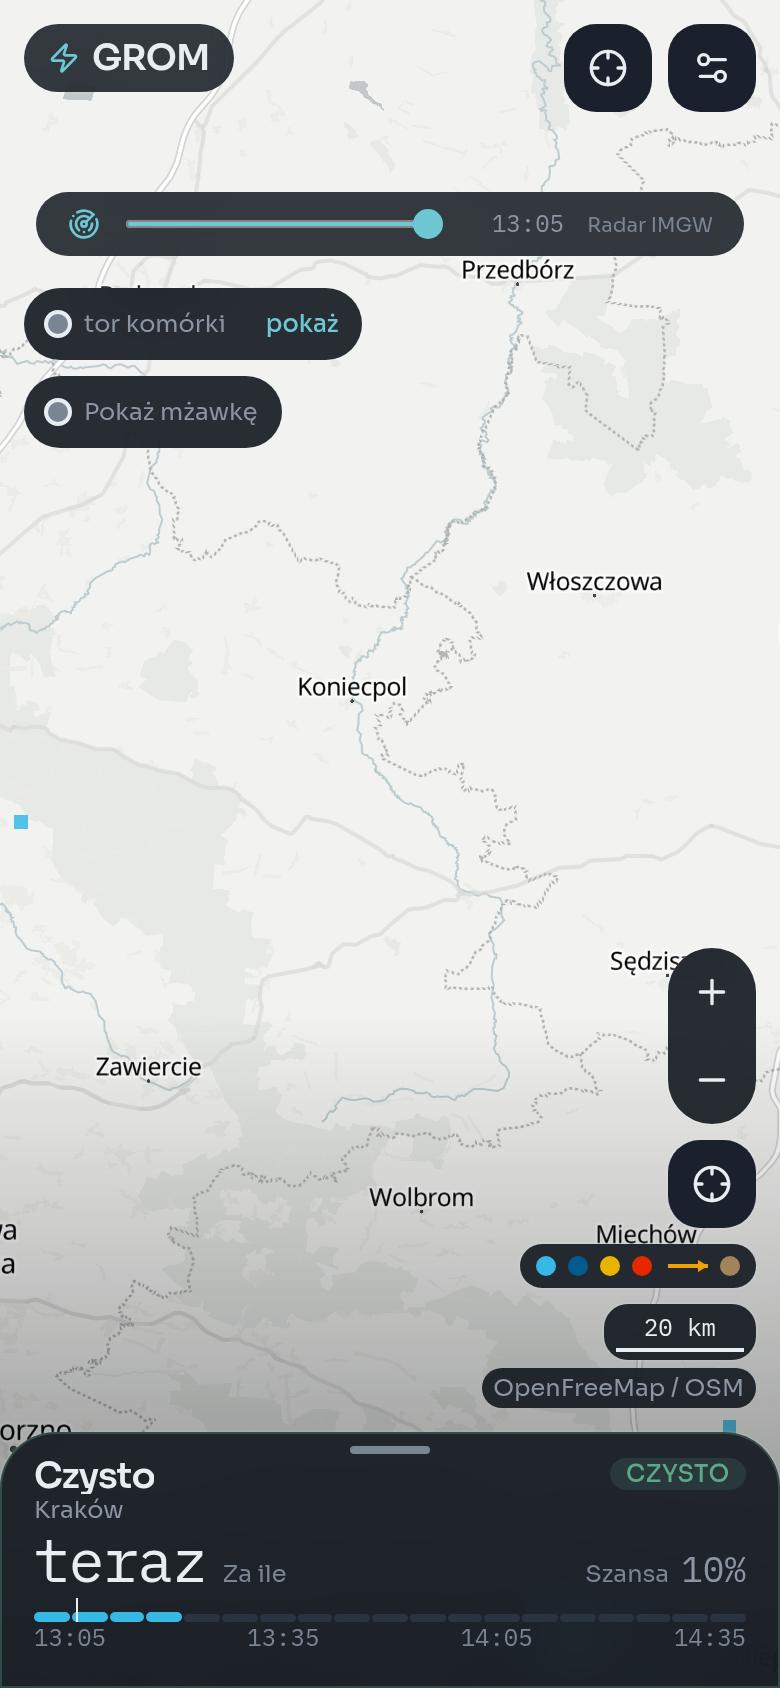
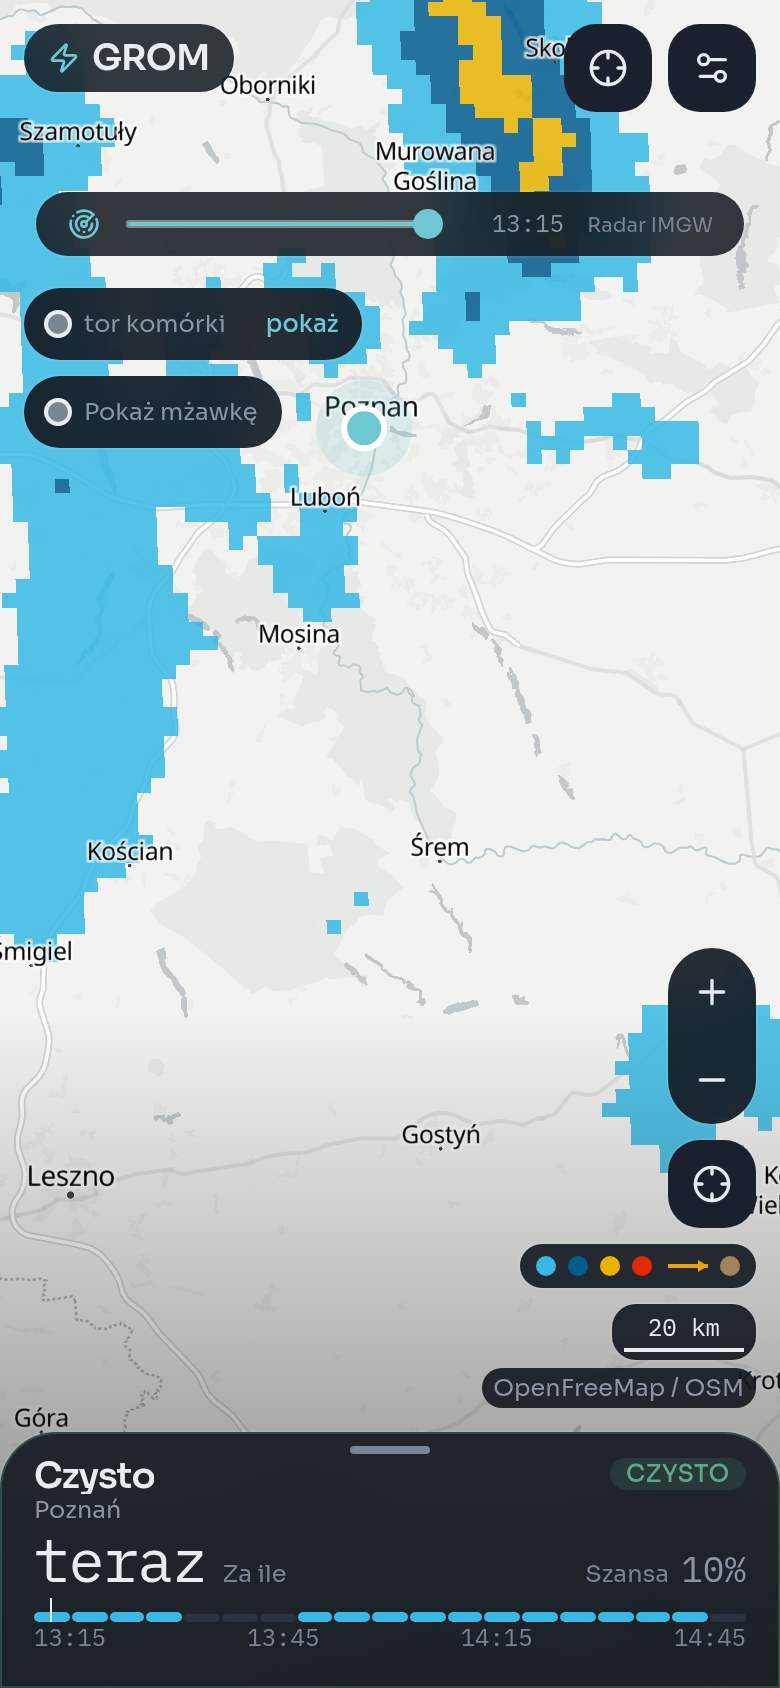
fix(threat-sheet): keep the strip source note out of the legend row
At 390px the advected note and "nic w oknie 90 min" collided in one
flex row. The note goes back beside the strip caption, where it was.

diff --git a/src/components/threat-sheet.tsx b/src/components/threat-sheet.tsx
@@ -445,7 +445,10 @@ function Strip({
   return (
     <div className={cn(interactive && "rounded-2xl bg-surface-2 px-3 py-2", className)}>
       {interactive ? (
-        <p className={cn("text-xs text-faint", extrasClass)}>Opad nad pinezką · 90 min</p>
+        <div className={cn("flex items-baseline justify-between gap-2 text-xs text-faint", extrasClass)}>
+          <span>Opad nad pinezką · 90 min</span>
+          <span>{advected ? "z ruchu echa" : "bez ruchu — jak teraz"}</span>
+        </div>
       ) : null}
       <div className={cn("relative", interactive && "sm:mt-2")}>
         <div
@@ -517,8 +520,7 @@ function Strip({
               {levelLabelPl(l.level)} {l.range}
             </span>
           ))}
-          <span className="ml-auto">{advected ? "z ruchu echa" : "bez ruchu — jak teraz"}</span>
-          {!any ? <span className="w-full">nic w oknie 90 min</span> : null}
+          {!any ? <span className="ml-auto">nic w oknie 90 min</span> : null}
         </div>
       ) : null}
     </div>

diff --git a/.cursor/skills/verify-grom/evidence/20260903-110854/notes.md b/.cursor/skills/verify-grom/evidence/20260903-110854/notes.md
@@ -3,43 +3,44 @@
 **Base:** http://127.0.0.1:8080
 **Out:** .cursor/skills/verify-grom/evidence/20260903-110854
 **OK:** true
-**When:** 2026-09-03T11:09:59.461Z → 2026-09-03T11:10:22.121Z
+**When:** 2026-09-03T11:16:28.396Z → 2026-09-03T11:16:59.997Z
 
 ## Action → state
 
-Peek at 390x844: max-h-[128px], 128px, no nested scroller or button, Za ile teraz @30px over Szansa 10% @18px, chip CZYSTO. Handle tap → max-h-[45dvh] at 380px with the status row "Radar 13:05 · 5 min · IMGW ✕ · wyładowania ✕" and no Dane:/O danych tail. No NOW/IMMINENT/ETA/TERYT/ECHO in the sheet DOM.
+Peek at 390x844: max-h-[128px], 128px, no nested scroller or button, Za ile teraz @30px over Szansa 10% @18px, chip CZYSTO. Handle tap → max-h-[45dvh] at 374px with the status row "Radar 13:15 · 2 min · IMGW ✕ · wyładowania ✕" and no Dane:/O danych tail. No NOW/IMMINENT/ETA/TERYT/ECHO in the sheet DOM.
 
 ## Steps
 
 1. viewport 390x844 (phone)
 2. navigate http://127.0.0.1:8080/
 3. sheet is collapsed (max-h-[128px]); expanded-only checks deferred
-4. timeline ticks: 13:05 · 13:35 · 14:05 · 14:35
-5. timeline aria: Opad od 13:05 do 13:20, najsilniej ok. 13:05
+4. timeline ticks: 13:10 · 13:40 · 14:10 · 14:40
+5. timeline aria: Brak opadu od 13:10 do 14:40
 6. trio labels: Za ile · Szansa
 7. status row: null
 8. sheet ready, starts with pin copy: Czysto | CZYSTO |  | Kraków
 9. map chrome on screen: zoom Przybliż/Oddal, locate, legend, credit "OpenFreeMap / OSM"
 10. Ustawienia tap 1 did not open the dialog (hydration?)
-11. pin Kraków: chip CZYSTO · Czysto CZYSTO Kraków Za ile teraz Szansa 10% 13:05 13:35 14:05 14:35
-12. pin Katowice: chip CZYSTO · Czysto CZYSTO Katowice Za ile minie Szansa 10% 13:05 13:35 14:05 14:35
-13. pin Poznań: chip CZYSTO · Czysto CZYSTO Poznań Za ile 30 min Szansa 50% 13:05 13:35 14:05 14:35
-14. pin Gdańsk: chip CZYSTO · Czysto CZYSTO Gdańsk Za ile 60 min Szansa 10% 13:05 13:35 14:05 14:35
-15. no live level chip; going back to Kraków, the one pin with a real Za ile
-16. pin Kraków: chip CZYSTO · Czysto CZYSTO Kraków Za ile teraz Szansa 10% 13:05 13:35 14:05 14:35
-17. peek: detent max-h-[128px] · height 128px · aria-expanded=false · chip CZYSTO
-18. peek: Za ile teraz @30px > Szansa 10% @18px
-19. peek fits: clipped 0px, nested scrollers 0, nested buttons 0
-20. peek text: Czysto CZYSTO Kraków Za ile teraz Szansa 10% 13:05 13:35 14:05 14:35
-21. tap the grab handle
-22. half: detent max-h-[45dvh] · height 380px · aria-expanded=true · chip CZYSTO
-23. half: Za ile teraz @30px > Szansa 10% @18px
-24. half status row: Radar 13:05 · 5 min · IMGW ✕ · wyładowania ✕
-25. half text: Czysto CZYSTO Kraków Za ile teraz Szansa 10% 13:05 13:35 14:05 14:35 Idzie od zachodu na wschód · 25 km/h · echo 1 km Spodziewaj się: słabego deszczu Komórka słabnie Komórka może też urosnąć na miejscu — tego radar nie zapowie. Radar 13:05 · 5 min · IMGW ✕ · wyładowania ✕
+11. pin Kraków: chip CZYSTO · Czysto CZYSTO Kraków Za ile minie Szansa 10% 13:15 13:45 14:15 14:45
+12. pin Katowice: chip CZYSTO · Czysto CZYSTO Katowice Za ile — Szansa 10% 13:15 13:45 14:15 14:45
+13. pin Poznań: chip CZYSTO · Czysto CZYSTO Poznań Za ile teraz Szansa 10% 13:15 13:45 14:15 14:45
+14. pin Gdańsk: chip CZYSTO · Czysto CZYSTO Gdańsk Za ile 43 min Szansa 50% 13:15 13:45 14:15 14:45
+15. pin Wrocław: chip CZYSTO · Czysto CZYSTO Wrocław Za ile — Szansa 10% 13:15 13:45 14:15 14:45
+16. no live level chip; going back to Poznań, the one pin with a real Za ile
+17. pin Poznań: chip CZYSTO · Czysto CZYSTO Poznań Za ile teraz Szansa 10% 13:15 13:45 14:15 14:45
+18. peek: detent max-h-[128px] · height 128px · aria-expanded=false · chip CZYSTO
+19. peek: Za ile teraz @30px > Szansa 10% @18px
+20. peek fits: clipped 0px, nested scrollers 0, nested buttons 0
+21. peek text: Czysto CZYSTO Poznań Za ile teraz Szansa 10% 13:15 13:45 14:15 14:45
+22. tap the grab handle
+23. half: detent max-h-[45dvh] · height 374px · aria-expanded=true · chip CZYSTO
+24. half: Za ile teraz @30px > Szansa 10% @18px
+25. half status row: Radar 13:15 · 2 min · IMGW ✕ · wyładowania ✕
+26. half text: Czysto CZYSTO Poznań Za ile teraz Szansa 10% 13:15 13:45 14:15 14:45 Idzie od zachodu na wschód · 37 km/h · echo 2 km Spodziewaj się: słabego deszczu Komórka może też urosnąć na miejscu — tego radar nie zapowie. Radar 13:15 · 2 min · IMGW ✕ · wyładowania ✕
 
 ## Side effects
 
-- `grom-settings-v1` {"storage":"grom-settings-v1","pin":"Kraków"}
+- `grom-settings-v1` {"storage":"grom-settings-v1","pin":"Poznań"}
 
 ## Screenshots
 
@@ -51,26 +52,42 @@ Mocks: none. Radar snapshot is the live IMGW/RainViewer boundary already checked
 
 ## Addendum (by hand)
 
-Doctor for this run: `doctor.json` — SRI fresh (`latestAgeMin` 5.4, `analysisSource` sri),
-`warningsUnavailable` and `lightningUnavailable` both true, so IMGW-tint and strike
-assertions were skipped and the status row honestly reads `IMGW ✕ · wyładowania ✕`.
+Doctor for this run (`doctor.json`): SRI fresh (`analysisSource: sri`, radar ~5 min old),
+`warningsUnavailable` and `lightningUnavailable` both **true** — so IMGW-tint and strike
+assertions were skipped, and the status row honestly reads `IMGW ✕ · wyładowania ✕`.
 
-Live weather during the run: no pin in the first 12 `CITIES` was at `now`/`imminent`
-(every chip read `CZYSTO`), so the driver fell back to the one pin with rain in the
-90-min window — Kraków, echo 1 km, `Za ile teraz`, `Komórka słabnie`. An earlier pass
-on the same branch (~12:52 CEST, before the shared-answer refactor) did catch Kraków at
-`now`: chip `TERAZ`, `Deszcz nad Tobą`, `Za ile teraz` @30px, `Szansa 90%`, auto-expanded
-to `max-h-[45dvh]` at 380px, peek 128px with 0 clipping.
+Live weather: no pin in the first 12 `CITIES` was at `now`/`imminent` when this run
+landed (every chip read `CZYSTO`), so the driver fell back to the one pin with rain in
+the 90-min window — **Poznań**, echo 2 km, `Za ile teraz`, strip aria
+`Opad od 13:15 do 14:40, najsilniej ok. 14:30`. An earlier pass on this branch
+(~12:52 CEST, before the shared-answer commit) did catch **Kraków at `now`**: chip
+`TERAZ`, headline `Deszcz nad Tobą`, `Za ile teraz` @30px, `Szansa 90%`, auto-expanded
+to `max-h-[45dvh]` at 380px, peek 128px with 0 clipping and 0 nested scrollers, and the
+half caveat was the single sentence `Komórka może też urosnąć na miejscu — tego radar
+nie zapowie.`
+
+Measured (`peek.json`):
+
+| | peek | half |
+|---|---|---|
+| detent | `max-h-[128px]` | `max-h-[45dvh]` |
+| sheet height | 128px | 374px (cap 380px) |
+| clipped inside the detent | 0px | 0px |
+| inner scroller overflow | none (no scroller in peek) | 0px |
+| `Za ile` / `Szansa` font size | 30px / 18px | 30px / 18px |
 
 Against the three 3 Sep "before" screenshots:
 
 | Before (live 3 Sep) | Now (this run) |
 |---|---|
-| Peek/half card with an inner scrollbar | peek `nestedScrollers: 0`, `sheetClippedPx: 0`; half scrolls 21px on this busy card (was 86px before the density pass) |
-| `SZANSA` / `ZA ILE` / `ECHO` boxed tiles, 10px caps | one unboxed pair: `Za ile` 30px mono hero + `Szansa` 18px; no `ECHO` anywhere in the DOM |
-| Grey paragraph repeating `Idzie od …`, `echo ok. 13 km`, `Dojście … 8 min`, `Szansa ~90%` | one caveat: `Komórka może też urosnąć na miejscu — tego radar nie zapowie.` |
-| Echo distance as a third KPI | folded into `Idzie od zachodu na wschód · 25 km/h · echo 1 km` |
+| Card with an inner scrollbar | peek has no scroller at all; half fits (0px overflow; 21px on a busier `Komórka słabnie` card) |
+| `SZANSA` / `ZA ILE` / `ECHO` boxed tiles, 10px caps | one unboxed pair: `Za ile` 30px mono hero + `Szansa` 18px |
+| Grey paragraph repeating `Idzie od …`, `echo ok. 13 km`, `Dojście … 8 min`, `Szansa ~90%` | one caveat sentence, nothing the box already said |
+| Echo as a third KPI | folded into `Idzie od zachodu na wschód · 37 km/h · echo 2 km` |
 | Two-line `NOWCAST PL / GROM` tile | bolt + `GROM` pill |
 
-Sheet DOM guard: `ENGLISH_LEAK_RE` (`NOW|IMMINENT|NEARBY|ETA|TERYT|ECHO`) was checked at
+Sheet DOM guard `ENGLISH_LEAK_RE` (`NOW|IMMINENT|NEARBY|ETA|TERYT|ECHO`) was evaluated at
 peek and at half — no match either time.
+
+Desktop regression for the same change: `../20260903-111147/` (`location-pin` at 1280×800,
+Warszawa → Kraków chip, status row and clock ticks intact, no TERYT).

diff --git a/.cursor/skills/verify-grom/evidence/20260903-111147/notes.md b/.cursor/skills/verify-grom/evidence/20260903-111147/notes.md
@@ -1,0 +1,44 @@
+# Drive: location-pin
+
+**Base:** http://127.0.0.1:8080
+**Out:** .cursor/skills/verify-grom/evidence/20260903-111147
+**OK:** true
+**When:** 2026-09-03T11:11:56.240Z → 2026-09-03T11:12:00.403Z
+
+## Action → state
+
+Clicked Ustawienia, chose Kraków chip, threat sheet shows Kraków without TERYT; localStorage still has terc 1261.
+
+## Steps
+
+1. viewport 1280x800
+2. navigate http://127.0.0.1:8080/
+3. timeline ticks: 13:10 · 13:40 · 14:10 · 14:40
+4. timeline aria: Brak opadu od 13:10 do 14:40
+5. trio labels: Za ile · Szansa
+6. status row: Radar 13:10 · 2 min · IMGW ✕ · wyładowania ✕
+7. sheet ready, starts with pin copy: Czysto | CZYSTO |  | Kraków
+8. map chrome on screen: zoom Przybliż/Oddal, locate, legend, credit "OpenFreeMap / OSM"
+9. Warszawa sheet scrolled to status row
+10. localStorage place.label before=Kraków
+11. click button[aria-label="Ustawienia"]
+12. dialog open: Lokalizacja i alerty · Miejsce · Alerty; aria-modal=true
+13. click city chip "Kraków"
+14. sheet shows Kraków (no TERYT); dialog closed
+15. Kraków status row: Radar 13:10 · 2 min · IMGW ✕ · wyładowania ✕
+16. Kraków timeline ticks: 13:10 · 13:40 · 14:10 · 14:40
+17. Kraków timeline aria: Brak opadu od 13:10 do 14:40
+
+## Side effects
+
+- `grom-settings-v1` {"storage":"grom-settings-v1","place":{"lat":50.0647,"lon":19.945,"label":"Kraków","instrumental":"Krakowem","city":"Kraków","terc":"1261"}}
+
+## Screenshots
+
+- `01-warszawa-sheet.png` — sheet after snapshot, default / prior pin
+- `01b-warszawa-status-row.png` — sheet scrolled to the grey status row
+- `02-settings-dialog.png` — dialog `Lokalizacja i alerty` open with `Miejsce` / `Alerty`
+- `03-krakow-sheet.png` — sheet after Kraków chip
+- `03b-krakow-status-row.png` — Kraków sheet scrolled to the status row
+
+Mocks: none. Radar snapshot is the live IMGW/RainViewer boundary already checked by doctor.
